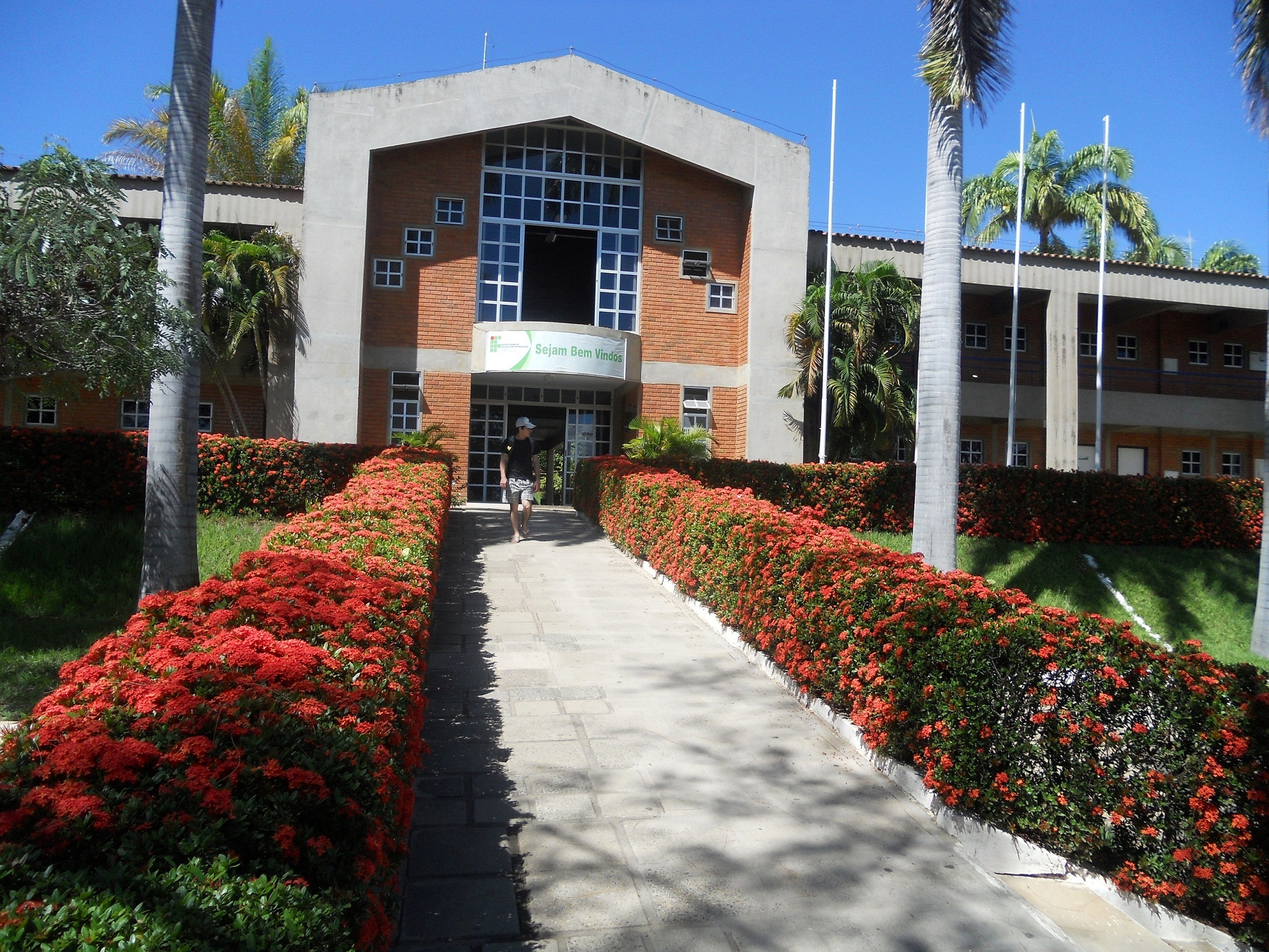
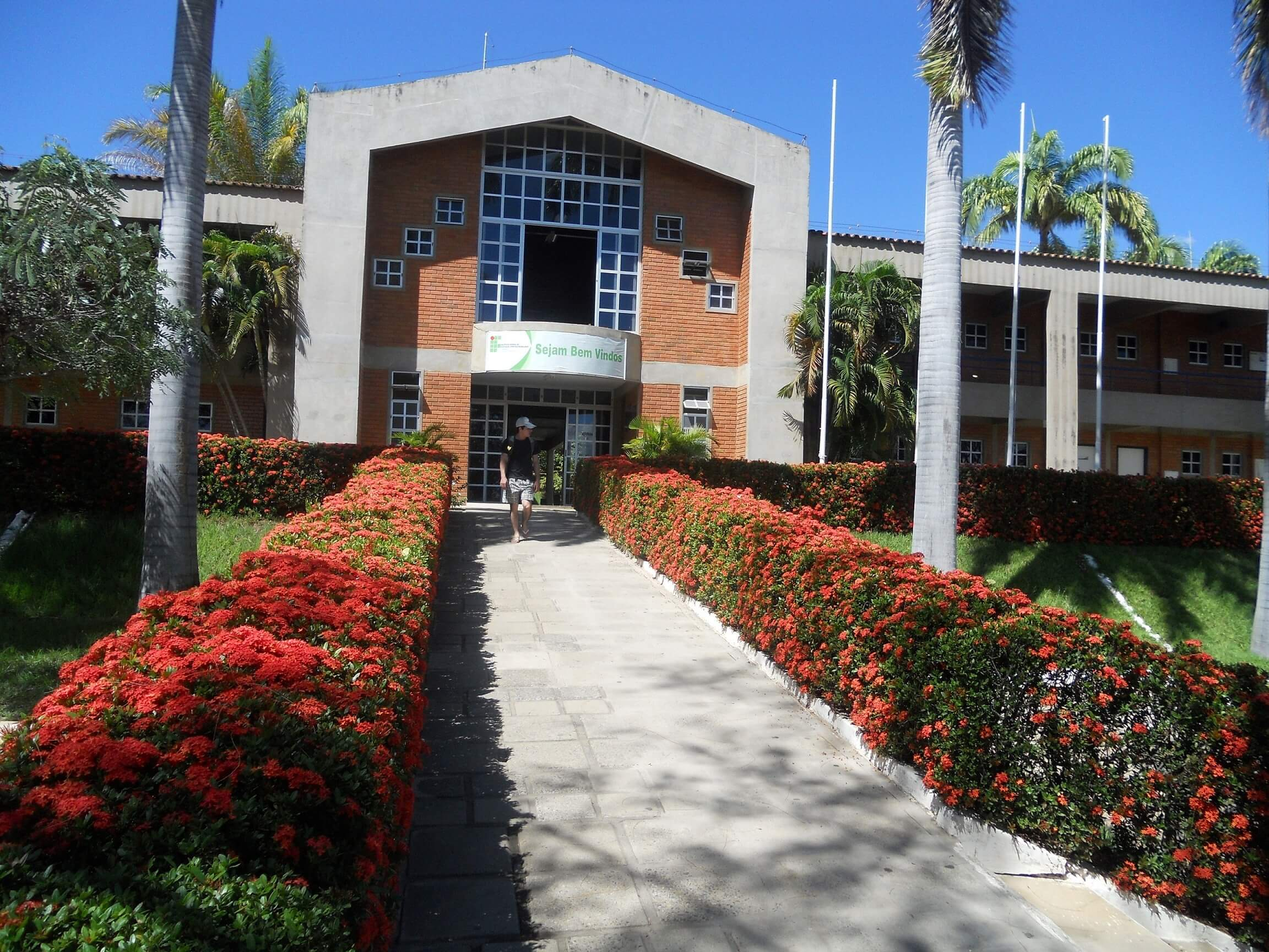
images compressed, new card added

Changed region(s): [[0.4688, 0.5, 0.5938, 0.5938], [0.3125, 0.5312, 0.3438, 0.5938]]

diff --git a/index.html b/index.html
@@ -68,10 +68,10 @@
 
 			<!-- <img src="imgs/ifpb02.jpg" class="z-depth-2"> -->
 			<div class="slider">
-			    <ul class="slides">
-			      <li><img src="imgs/ifpb01.jpg"></li>
-			      <li><img src="imgs/ifpb02.jpg"></li>
-			    </ul>
+				<ul class="slides">
+					<li><img src="imgs/ifpb01.jpg"></li>
+					<li><img src="imgs/ifpb02.jpg"></li>
+				</ul>
 			</div>
 
 			<div class="col m6 s12 offset-m3 centered-panel">
@@ -591,116 +591,158 @@
 						</div>
 					</div>
 				</div>
+
+				<div class="card-wrapper col l3 m4 s12">
+
+					<div class="card">
+						<div class="card-image">
+							<img src="imgs/organizacao/Victor Hugo.jpg">
+							<span class="card-title">Victor Hugo da Silva Ribeiro</span>
+						</div>
+						<div class="card-action">
+							<a class="activator" href="#!">Mais Informações</a>
+						</div>
+						<div class="card-reveal">
+							<span class="card-title grey-text text-darken-4">
+								<i class="material-icons right">close</i>
+							</span>
+							<div class="card-reveal-content">
+								<p>
+									Desenvolvedor do Website
+								</p>
+								<ul class="social">
+									<li>
+										<a title="Link para ver o Facebook de Victor Hugo da Silva Ribeiro" class="grey-text text-lighten-3" href="https://www.facebook.com/victor.hugo.7568596"
+										target="_blank">
+										<i class="fa fa-facebook-square" aria-hidden="true"></i>
+									</a>
+								</li>
+								<li>
+									<a title="Link para ver o LinkedIn de Victor Hugo da Silva Ribeiro" class="grey-text text-lighten-3" href="https://www.linkedin.com/in/victor-hugo-da-silva-ribeiro-92822bba" target="_blank">
+										<i class="fa fa-linkedin-square" aria-hidden="true"></i>
+									</a>
+								</li>
+								<li>
+									<a title="Link para ver o Github de Victor Hugo da Silva Ribeiro" class="grey-text text-lighten-3" href="https://github.com/victorhsr" target="_blank">
+										<i class="fa fa-github" aria-hidden="true"></i>
+									</a>
+								</li>
+							</ul>
+						</div>
+					</div>
+				</div>
+			</div>
+
+		</div>
+	</div>
+</section>
+
+<section id="register" class="register scrollspy">
+	<h2 class="text-center header">Inscrição</h2>
+	<div class="row">
+		<div class="container">
+			<p class="text-center flow-text">
+				As inscrições são gratuitas! Para participar, basta clicar aqui abaixo e preencher os dados necessários. Após a inscrição, você deverá enviar o resumo até o dia 22 de janeiro de 2017. Para a Categoria de ouvinte as inscrições se estenderão até o dia 17 de fevereiro de 2017.
+			</p>
+			<center><a href="http://www.google.com" target="_blank" class="btn green" title="Realizar Inscrição">Realizar Inscrição</a></center>
+		</div>
+	</div>
+	<div class="row">
+		<div class="container">
+			<h4 class="text-center header"><span class="sub-header">Normas Gerais, Modelos de Resumo e Pôster</span></h4>
+			<p class="text-center flow-text">
+				Os participantes que desejarem apresentar trabalho deverão seguir as recomendações de formatação de resumo e pôster indicadas nas normas gerais e nos modelos abaixo: <br>
+			</p>
+			<div class="row">
+				<div class="container">
+					<div class="col l4 m4 s12">
+						<a title="Link para download do Modelo de Resumo em Doc" href="#">
+							<img class="file-icon block-center grayscale-link" src="imgs/doc_download.png">
+						</a>
+						<p class="flow-text text-center">Normas Gerais</p>
+					</div>
+					<div class="col l4 m4 s12">
+						<a title="Link para download do Modelo de Resumo em Doc" href="#">
+							<img class="file-icon block-center grayscale-link" src="imgs/doc_download.png">
+						</a>
+						<p class="flow-text text-center">Modelo de Resumo</p>
+					</div>
+					<div class="col l4 m4 s12">
+						<a title="Link para download do Modelo de Pôster em PDF" href="#">
+							<img class="file-icon block-center grayscale-link" src="imgs/pdf_download.png"></a>
+							<p class="flow-text text-center">Modelo de Pôster</p>
+						</div>
+					</div>
+				</div>
+			</div>
+		</div>
+		<div class="row">
+			<div class="container">
+				<h4 class="text-center header"><span class="sub-header">Como enviar o resumo?</span></h4>
+				<p class="text-center flow-text">Após o preenchimento do formulário, você deverá clicar <a href="#" title="Clique para enviar o seu resumo">aqui</a> para enviar o seu resumo para a publicação nos Anais do Evento, que ficará disponível no site: <a
+					href="http://repositorio.ifpb.edu.br" title="Repositório Digital do IFPB">repositorio.ifpb.edu.br</a>.
+				</p>
 			</div>
 		</div>
 	</section>
 
-	<section id="register" class="register scrollspy">
-		<h2 class="text-center header">Inscrição</h2>
-		<div class="row">
-			<div class="container">
-				<p class="text-center flow-text">
-					As inscrições são gratuitas! Para participar, basta clicar aqui abaixo e preencher os dados necessários. Após a inscrição, você deverá enviar o resumo até o dia 22 de janeiro de 2017. Para a Categoria de ouvinte as inscrições se estenderão até o dia 17 de fevereiro de 2017.
-				</p>
-				<center><a href="http://www.google.com" target="_blank" class="btn green" title="Realizar Inscrição">Realizar Inscrição</a></center>
-			</div>
-		</div>
-		<div class="row">
-			<div class="container">
-				<h4 class="text-center header"><span class="sub-header">Normas Gerais, Modelos de Resumo e Pôster</span></h4>
-				<p class="text-center flow-text">
-					Os participantes que desejarem apresentar trabalho deverão seguir as recomendações de formatação de resumo e pôster indicadas nas normas gerais e nos modelos abaixo: <br>
-				</p>
-				<div class="row">
-					<div class="container">
-						<div class="col l4 m4 s12">
-							<a title="Link para download do Modelo de Resumo em Doc" href="#">
-								<img class="file-icon block-center grayscale-link" src="imgs/doc_download.png">
-							</a>
-							<p class="flow-text text-center">Normas Gerais</p>
-						</div>
-						<div class="col l4 m4 s12">
-							<a title="Link para download do Modelo de Resumo em Doc" href="#">
-								<img class="file-icon block-center grayscale-link" src="imgs/doc_download.png">
-							</a>
-							<p class="flow-text text-center">Modelo de Resumo</p>
-						</div>
-						<div class="col l4 m4 s12">
-							<a title="Link para download do Modelo de Pôster em PDF" href="#">
-								<img class="file-icon block-center grayscale-link" src="imgs/pdf_download.png"></a>
-								<p class="flow-text text-center">Modelo de Pôster</p>
-							</div>
-						</div>
-					</div>
-				</div>
-			</div>
+	<footer id="local" class="page-footer green darken-2 scrollspy">
+		<div class="container">
 			<div class="row">
-				<div class="container">
-					<h4 class="text-center header"><span class="sub-header">Como enviar o resumo?</span></h4>
-					<p class="text-center flow-text">Após o preenchimento do formulário, você deverá clicar <a href="#" title="Clique para enviar o seu resumo">aqui</a> para enviar o seu resumo para a publicação nos Anais do Evento, que ficará disponível no site: <a
-						href="http://repositorio.ifpb.edu.br" title="Repositório Digital do IFPB">repositorio.ifpb.edu.br</a>.
+				<div class="col l6 s12">
+					<h5 class="white-text">V Mostra de Pesquisa, Extensão e Inovação</h5>
+					<p class="grey-text text-lighten-4">
+						<i class="fa fa-phone" aria-hidden="true"></i> Telefone <br>
+						3532-4100
 					</p>
-				</div>
-			</div>
-		</section>
-
-		<footer id="local" class="page-footer green darken-2 scrollspy">
-			<div class="container">
-				<div class="row">
-					<div class="col l6 s12">
-						<h5 class="white-text">V Mostra de Pesquisa, Extensão e Inovação</h5>
-						<p class="grey-text text-lighten-4">
-							<i class="fa fa-phone" aria-hidden="true"></i> Telefone <br>
-							3532-4100
-						</p>
-						<div class="address-wrapper">
-							<div class="balloon z-depth-3">
-								<iframe src="https://www.google.com/maps/embed?pb=!1m18!1m12!1m3!1d3961.0079620122997!2d-38.5471043858108!3d-6.889648769331903!2m3!1f0!2f0!3f0!3m2!1i1024!2i768!4f13.1!3m3!1m2!1s0x7a473a32378c727%3A0x4e45e65b60da5295!2sIFPB+-+Campus+Cajazeiras!5e0!3m2!1spt-BR!2sbr!4v1482512642192" width="100%" height="100%" frameborder="0" style="border-radius:20px" allowfullscreen></iframe>
-							</div>
-							<p class="grey-text text-lighten-4">
-								<i class="fa fa-map-marker" aria-hidden="true"></i> Endereço <br>
-								Rua José Antônio da Silva, 300
-								Bairro Jardim Oásis
-								Cajazeiras - PB
-								CEP: 58.900-000
-							</p>
+					<div class="address-wrapper">
+						<div class="balloon z-depth-3">
+							<iframe src="https://www.google.com/maps/embed?pb=!1m18!1m12!1m3!1d3961.0079620122997!2d-38.5471043858108!3d-6.889648769331903!2m3!1f0!2f0!3f0!3m2!1i1024!2i768!4f13.1!3m3!1m2!1s0x7a473a32378c727%3A0x4e45e65b60da5295!2sIFPB+-+Campus+Cajazeiras!5e0!3m2!1spt-BR!2sbr!4v1482512642192" width="100%" height="100%" frameborder="0" style="border-radius:20px" allowfullscreen></iframe>
 						</div>
-						<a class="grey-text text-lighten-4" style="text-decoration: underline;" href="http://www.ifpb.edu.br/cajazeiras" target="_blank" title="IFPB - Campus Cajazeiras">Instituto Federal de Educação, Ciência e Tecnologia da Paraíba - Campus Cajazeiras (IFPB)</a>
+						<p class="grey-text text-lighten-4">
+							<i class="fa fa-map-marker" aria-hidden="true"></i> Endereço <br>
+							Rua José Antônio da Silva, 300
+							Bairro Jardim Oásis
+							Cajazeiras - PB
+							CEP: 58.900-000
+						</p>
 					</div>
-					<div class="col l4 offset-l2 s12 text-center">
-						<h5 class="white-text">Redes Sociais</h5>
-						<div class="social-wrapper">
-							<ul class="social">
-								<li class="left">
-									<a class="grey-text text-lighten-3" href="https://www.facebook.com/ifpbcazajeiras" title="Facebook"
-									target="_blank">
-									<i class="fa fa-facebook-square" aria-hidden="true"></i>
-								</a>
-							</li>
-							<li class="right">
-								<a class="grey-text text-lighten-3" href="https://www.instagram.com/explore/locations/268054637/ifpb-cajazeiras" target="_blank" title="Instagram">
-									<i class="fa fa-instagram" aria-hidden="true"></i>
-								</a>
-							</li>
-						</ul>
-						<img id="footer-logo" src="imgs/event-logo.png" alt="MostraPEI 2017" title="MostraPEI 2017" />
-					</div>
+					<a class="grey-text text-lighten-4" style="text-decoration: underline;" href="http://www.ifpb.edu.br/cajazeiras" target="_blank" title="IFPB - Campus Cajazeiras">Instituto Federal de Educação, Ciência e Tecnologia da Paraíba - Campus Cajazeiras (IFPB)</a>
+				</div>
+				<div class="col l4 offset-l2 s12 text-center">
+					<h5 class="white-text">Redes Sociais</h5>
+					<div class="social-wrapper">
+						<ul class="social">
+							<li class="left">
+								<a class="grey-text text-lighten-3" href="https://www.facebook.com/ifpbcazajeiras" title="Facebook"
+								target="_blank">
+								<i class="fa fa-facebook-square" aria-hidden="true"></i>
+							</a>
+						</li>
+						<li class="right">
+							<a class="grey-text text-lighten-3" href="https://www.instagram.com/explore/locations/268054637/ifpb-cajazeiras" target="_blank" title="Instagram">
+								<i class="fa fa-instagram" aria-hidden="true"></i>
+							</a>
+						</li>
+					</ul>
+					<img id="footer-logo" src="imgs/event-logo.png" alt="MostraPEI 2017" title="MostraPEI 2017" />
 				</div>
 			</div>
 		</div>
-		<div class="footer-copyright">
-			<div class="container">
-				<div class="row">
-					<div class="col l6 s12">
-						Copyright © V Mostra de Pesquisa, Extensão e Inovação 2016
-					</div>
-					<div class="col l4 offset-l2 s12 text-center">
-						<a class="grey-text text-lighten-4" href="#!">Desenvolvido por HeroCode</a>
-					</div>
+	</div>
+	<div class="footer-copyright">
+		<div class="container">
+			<div class="row">
+				<div class="col l6 s12">
+					Copyright © V Mostra de Pesquisa, Extensão e Inovação 2016
+				</div>
+				<div class="col l4 offset-l2 s12 text-center">
+					<a class="grey-text text-lighten-4" href="#!">Desenvolvido por HeroCode</a>
 				</div>
 			</div>
 		</div>
-	</footer>
+	</div>
+</footer>
 
 </body>
 </html>
